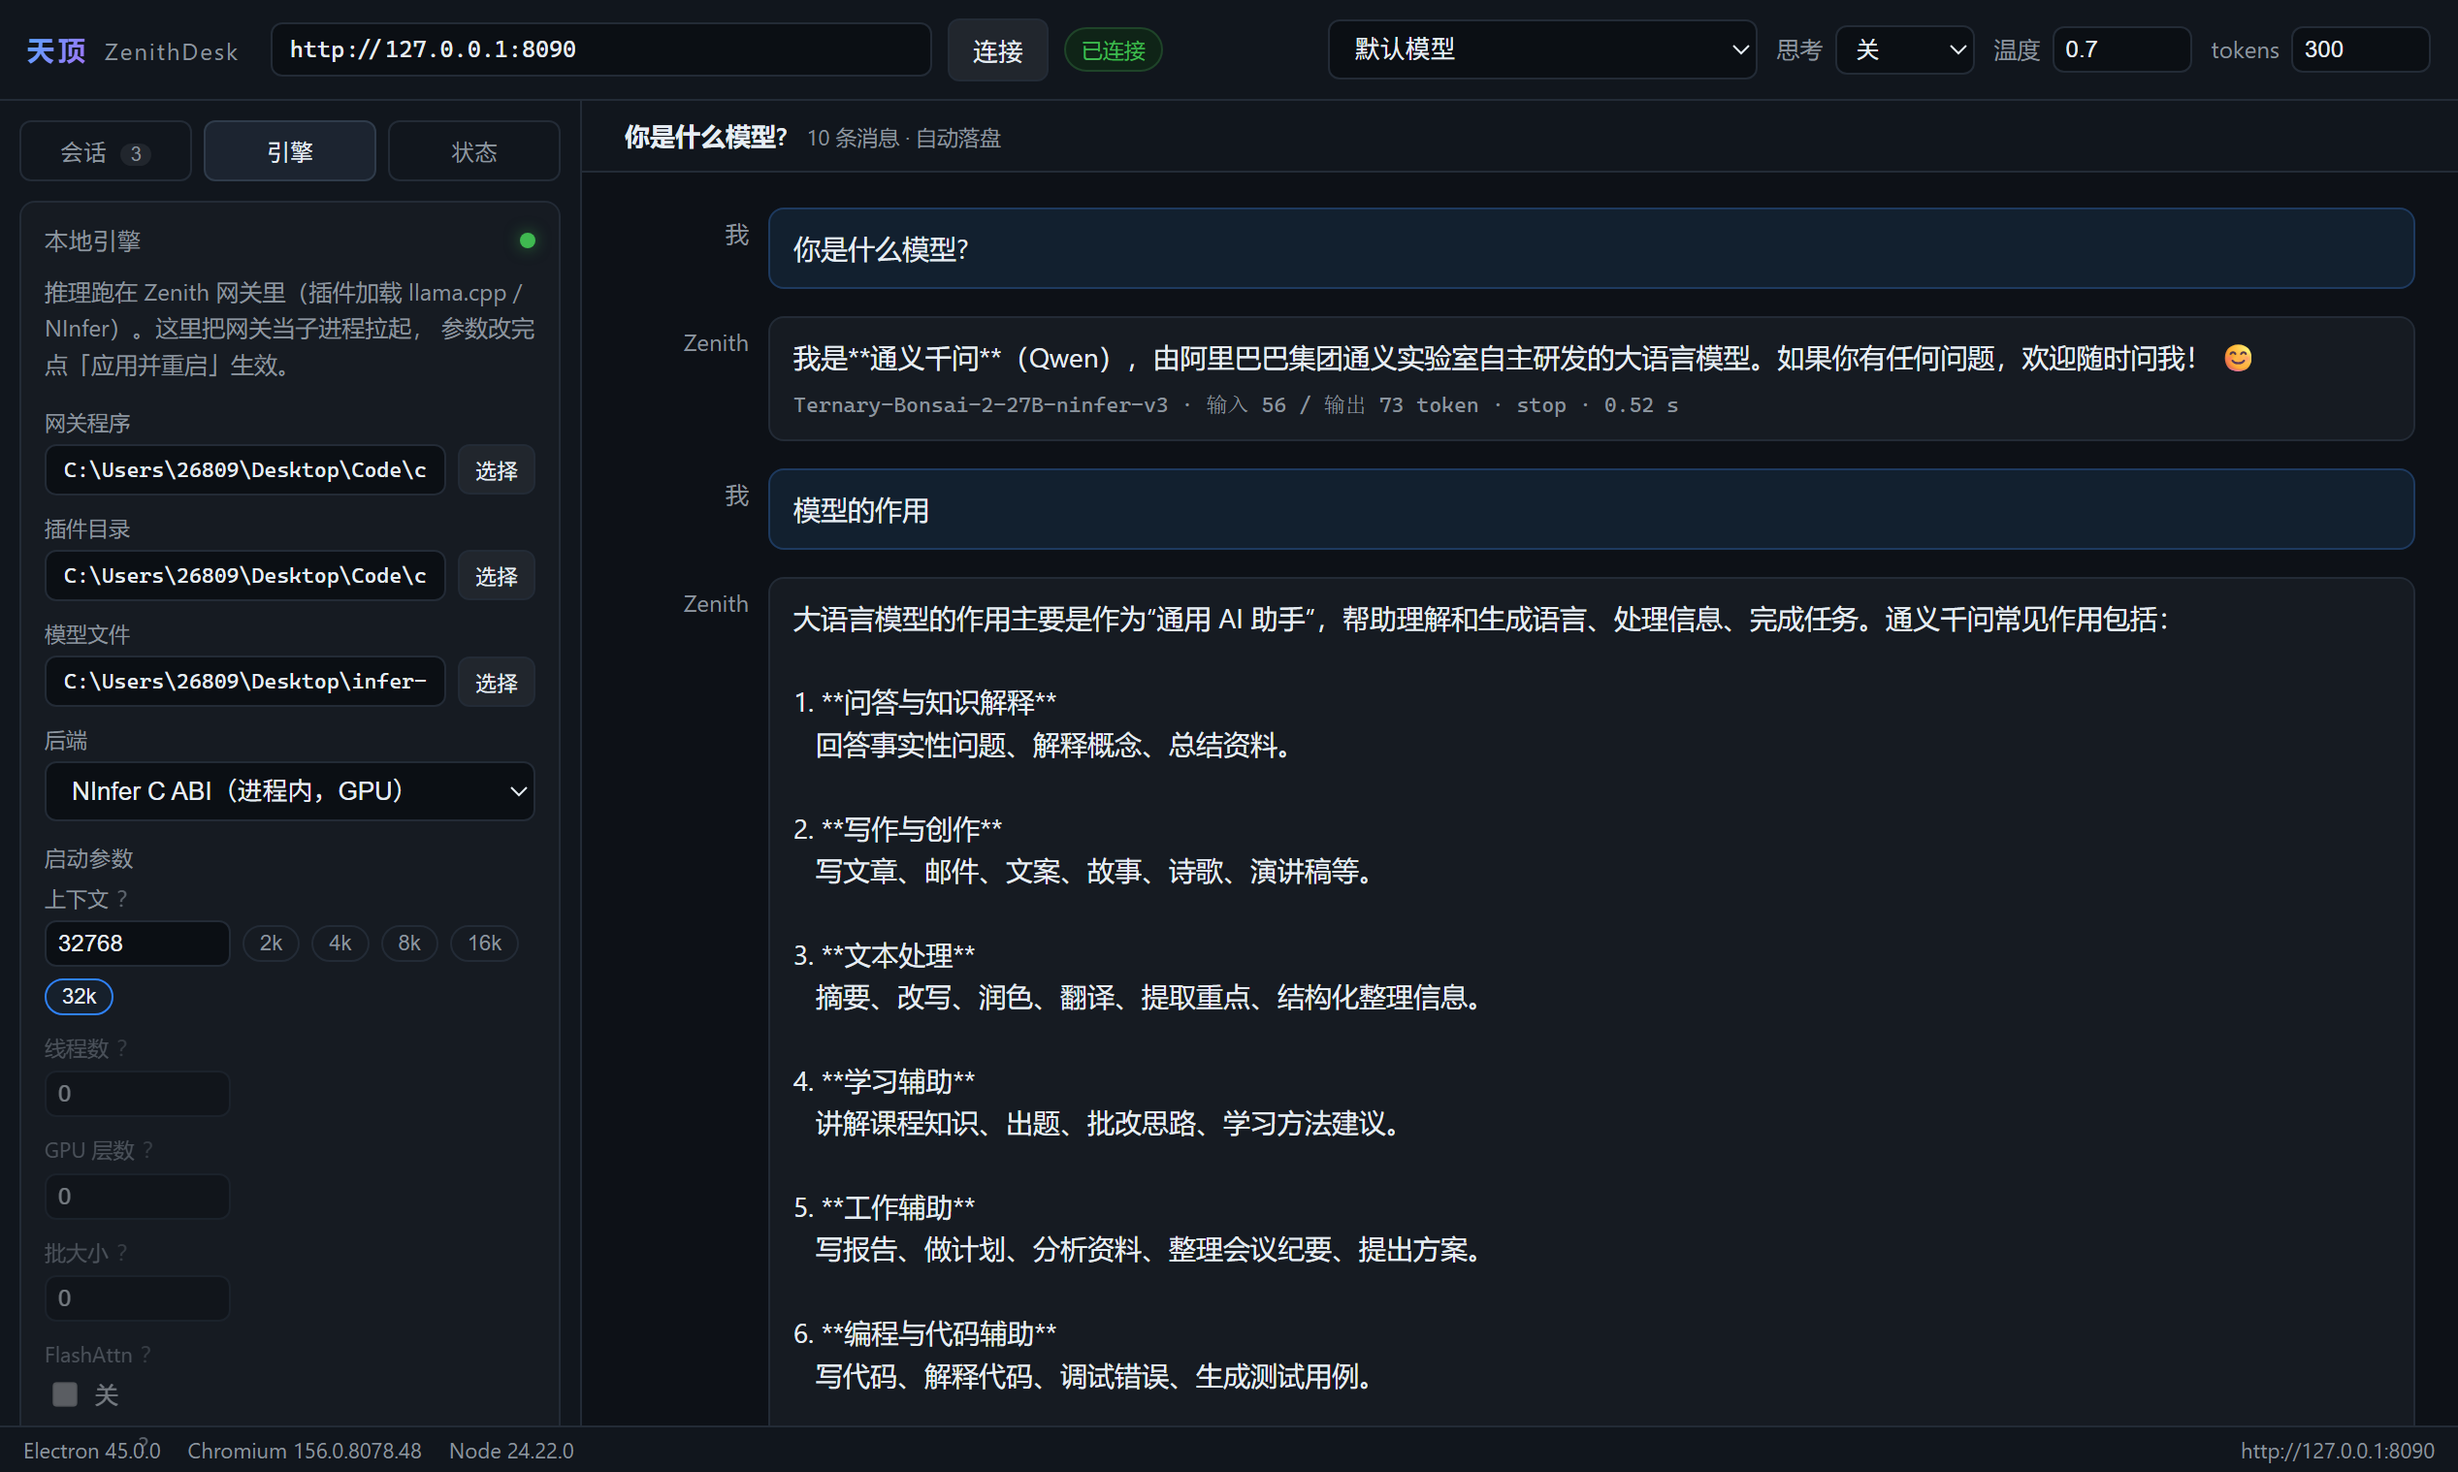
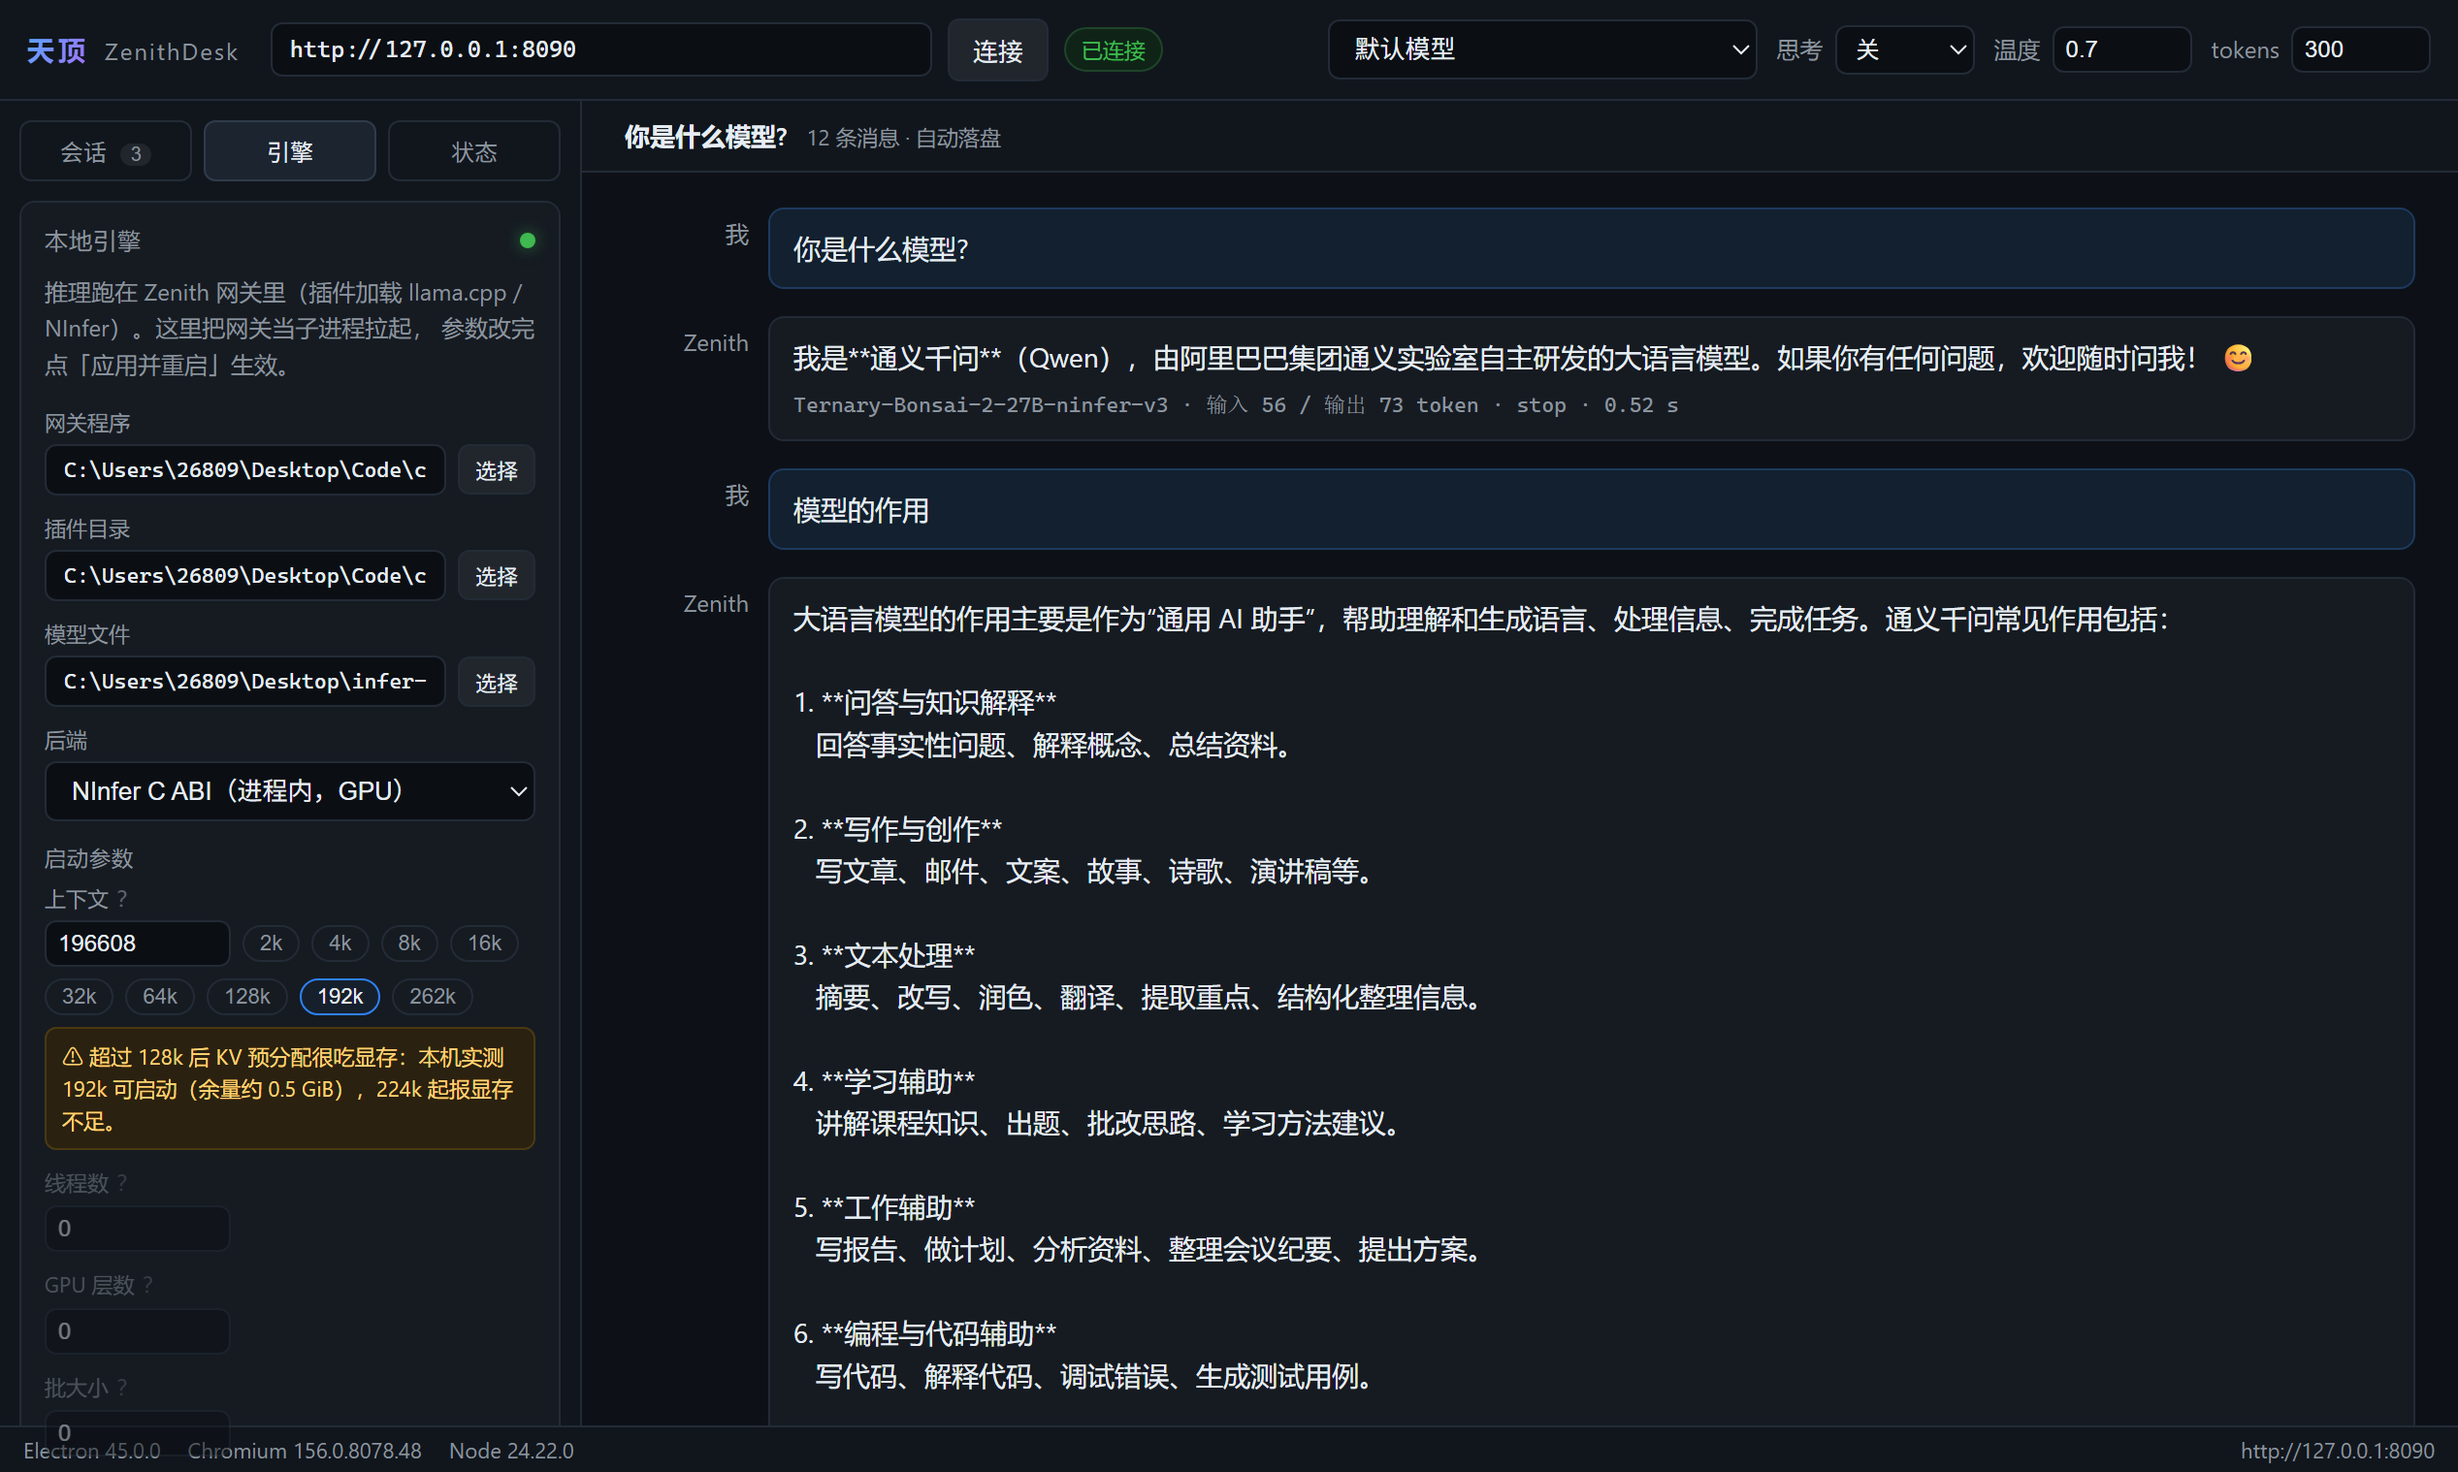
feat(engine): 上下文预设补 192k，去掉贴边的 200k
预设定为 2k/4k/8k/16k/32k/64k/128k/192k/262k：
- 192k 是实测有余量的最高档（启动后显存余量约 0.5 GiB）
- 200k 虽然也能起，但只剩约 0.2 GiB，容易因为别的显存占用而失败，故不作为预设
- 提示文案同步（提到 192k 可启动、224k 起不足）

验证：界面驱动启动 192k（ctx=196608），网关回显一致，模型加载成功并可对话

Changed region(s): [[0.0, 0.6192, 0.2182, 0.805], [0.0, 0.9289, 0.0624, 0.9908], [0.0312, 0.8669, 0.0624, 0.8979]]

diff --git a/src/components/EnginePanel.jsx b/src/components/EnginePanel.jsx
@@ -31,7 +31,7 @@ const CTX_PRESETS = [
   { v: 32768, t: '32k' },
   { v: 65536, t: '64k' },
   { v: 131072, t: '128k' },
-  { v: 204800, t: '200k' },
+  { v: 196608, t: '192k' },
   { v: 262144, t: '262k' },
 ]
 
@@ -43,7 +43,7 @@ function ctxHint(ctx, caps) {
     return '262k 会在启动时按 ctx 预分配 KV（本机实测约需 7.3 GiB，16 GB 卡 + 8.9 GB 权重装不下），大概率报 runtime reservation 不足。'
   }
   if (n >= 131072) {
-    return '超过 128k 后 KV 预分配很吃显存：本机实测 200k 可启动、224k 起就报显存不足。'
+    return '超过 128k 后 KV 预分配很吃显存：本机实测 192k 可启动（余量约 0.5 GiB），224k 起报显存不足。'
   }
   return ''
 }

diff --git a/README.md b/README.md
@@ -92,7 +92,7 @@ npm start            # = vite build + electron .
 
 | 参数 | 控件 | 取值 | 说明 |
 |---|---|---|---|
-| 上下文 | 数字 + 2k/4k/8k/16k/32k/64k/128k/200k/**262k** 预设 | 512 – 262144 | `--ctx`，同时决定 NInfer 的 KV 容量 |
+| 上下文 | 数字 + 2k/4k/8k/16k/32k/64k/128k/**192k**/**262k** 预设 | 512 – 262144 | `--ctx`，同时决定 NInfer 的 KV 容量 |
 | 线程数 | 数字 | 0 – 128（0=自动） | `--threads`，**仅 llama.cpp** |
 | GPU 层数 | 数字 | 0 – 999 | `--gpu-layers`，**仅 llama.cpp** |
 | 批大小 | 数字 | 0 或 32 – 4096 | `--batch`，**仅 llama.cpp** |
@@ -109,7 +109,7 @@ npm start            # = vite build + electron .
 
 > **超长上下文的现实约束**（实测：RTX 5070 Ti 16 GB + Ternary-Bonsai-2-27B 8.9 GB 权重）：
 > NInfer 会**按 ctx 预分配 KV**，同一张卡上
-> `128k / 192k / 200k` 可以启动，`224k` 起报显存不足，
+> `128k / 192k` 可以稳定启动（192k 时显存余量约 0.5 GiB），`224k` 起报显存不足，
 > `262k` 需要约 **7.3 GiB** KV（可用仅 6.5 GiB）——按钮保留，但点了会在启动时报
 > `runtime reservation requires … bytes, but only … are available`。
 > 换更大显存的卡或更小的权重就能用上。
